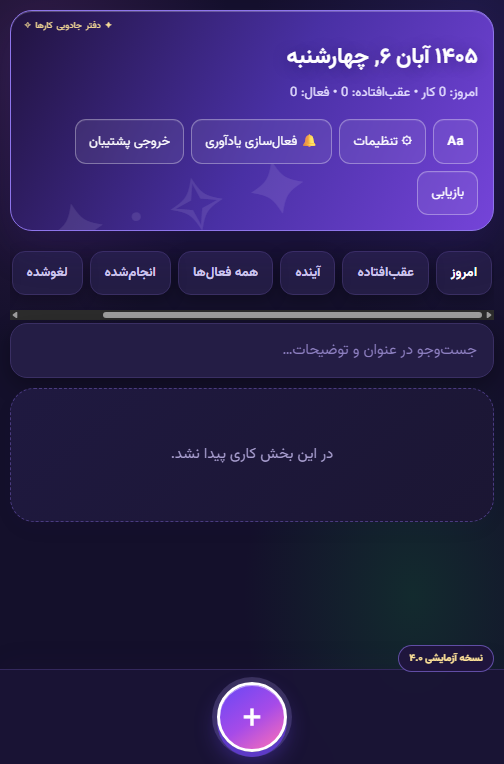
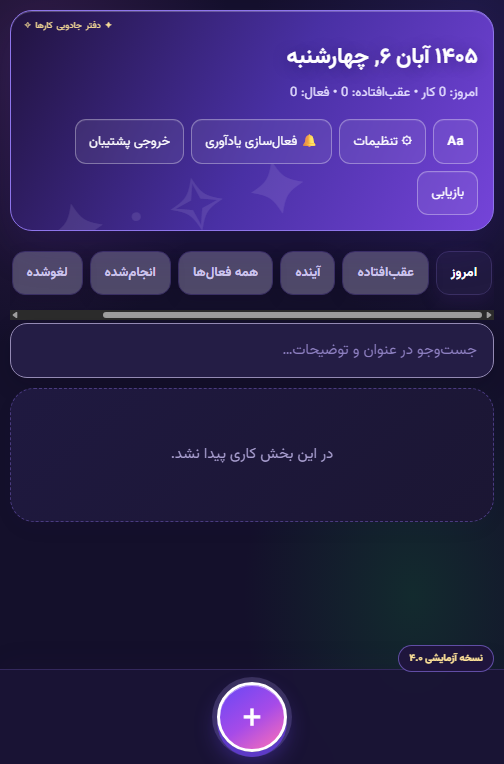
feat(notify): فعالسازی یکلمسی یادآوری — اعلان آزمایشی، حالت دکمه، ذخیره انتخاب، راهنمای رفع مجوز

Changed region(s): [[0.0298, 0.3312, 0.8631, 0.3914]]

diff --git a/index.html b/index.html
@@ -383,6 +383,10 @@ html[data-mode="dark"] .notice{background:#2a2350;border-color:#4d3d85;color:#cf
 html[data-mode="dark"] .sysbanner.warn{background:#3a2f14;border-color:#6b5518;color:#ffd978}
 html[data-mode="dark"] .sysbanner.err{background:#3f1420;border-color:#7a2338;color:#ff9db0}
 html[data-mode="dark"] .sysbanner.upd{background:#14213f;border-color:#2a4a8a;color:#9db9ff}
+
+/* V4.1 — notify button states */
+.notify-on{border-color:#1f5c48!important;background:#e9fbf3!important;color:#12875c!important;font-weight:700}
+html[data-mode="dark"] .notify-on{background:#12332b!important;color:#7ce8c3!important;border-color:#1f5c48!important}
 </style>
 </head>
 <body>
@@ -683,9 +687,26 @@ try{
  }else{alert('فایل پشتیبان معتبر نیست (schemaVersion ناشناخته است).');}
 }catch(err){alert('فایل پشتیبان معتبر نیست: '+((err&&err.message)||'خطای ناشناخته'))}
 e.target.value=''});
-document.getElementById('notifyBtn').addEventListener('click',async()=>{if(!('Notification'in window)){showNotice('این مرورگر از اعلانهای وب پشتیبانی نمیکند.');return}try{const p=await Notification.requestPermission();showNotice(p==='granted'?'مجوز اعلان صادر شد. در این نسخه، اعلانها فقط تا وقتی صفحه باز است بررسی میشوند. برای اعلان مطمئن هنگام بسته بودن برنامه باید نسخه HTTPS با سرویس پسزمینه نصب شود.':'مجوز اعلان صادر نشد؛ تنظیمات مرورگر را بررسی کنید.')}catch(e){showNotice('فعالسازی اعلان در این محیط ممکن نیست.')}});
+function refreshNotifyBtn(){const b=document.getElementById('notifyBtn');if(!b)return;
+ if(!('Notification'in window)||!window.isSecureContext){b.textContent='🔔 یادآوری — در این محیط پشتیبانی نمیشود';b.disabled=true;return}
+ if(Notification.permission==='granted'){b.textContent='🔔 یادآوری فعال ✓ (لمس: اعلان آزمایشی)';b.classList.add('notify-on');}
+ else if(Notification.permission==='denied'){b.textContent='🔔 یادآوری — نیاز به اجازه';b.classList.remove('notify-on');}
+ else{b.textContent='🔔 فعالسازی یادآوری';b.classList.remove('notify-on');}}
+document.getElementById('notifyBtn').addEventListener('click',async()=>{
+ if(!('Notification'in window)){showNotice('این مرورگر از اعلان پشتیبانی نمیکند.');return}
+ if(!window.isSecureContext){showNotice('برای اعلان، برنامه باید روی HTTPS اجرا شود.');return}
+ let p=Notification.permission;
+ if(p==='default'){try{p=await Notification.requestPermission()}catch(e){p='denied'}}
+ if(p==='granted'){
+  try{const n=new Notification('کار یار — یادآوری فعال شد ✓',{body:'یادآوری ساعتیِ کارها تا وقتی برنامه باز است فعال میماند.',tag:'kar-yar-on'});n.onclick=function(){try{window.focus()}catch(e){}}}catch(e){}
+  try{localStorage.setItem('kar_yar_notify','1')}catch(e){}
+  refreshNotifyBtn();showNotice('یادآوری فعال شد و اعلان آزمایشی فرستاده شد. یادآوریِ ساعتدارِ کارهای امروز تا وقتی برنامه باز است کار میکند؛ اعلان در پسزمینهٔ کاملاً بسته نیازمند سرویس Push است (فاز ۲).');
+ }else if(p==='denied'){refreshNotifyBtn();showNotice('اجازهٔ اعلان قبلاً رد شده است. راهکار: تنظیمات مرورگر ← اطلاعات سایت (آیکون ⓘ کنار آدرس) ← اعلانها ← «اجازه» — سپس اینجا دوباره لمس کنید.');}
+ else{refreshNotifyBtn();showNotice('فعالسازی کامل نشد؛ یکبار دیگر لمس کنید.');}
+});
+refreshNotifyBtn();
 let notified=new Set();
-function checkReminders(){if(!('Notification'in window)||Notification.permission!=='granted')return;const now=new Date();state.tasks.filter(t=>t.state==='active'&&t.dueDate===todayISO()&&t.dueTime).forEach(t=>{const [h,m]=t.dueTime.split(':').map(Number);const key=t.id+'-'+t.dueDate+'-'+t.dueTime;if(now.getHours()===h&&now.getMinutes()===m&&!notified.has(key)){notified.add(key);try{new Notification('یادآوری کار',{body:t.title+(t.description?' — '+t.description.slice(0,100):''),tag:key})}catch(e){}}})}
+function checkReminders(){if(!('Notification'in window)||Notification.permission!=='granted')return;const now=new Date();state.tasks.filter(t=>t.state==='active'&&t.dueDate===todayISO()&&t.dueTime).forEach(t=>{const [h,m]=t.dueTime.split(':').map(Number);const key=t.id+'-'+t.dueDate+'-'+t.dueTime;if(now.getHours()===h&&now.getMinutes()===m&&!notified.has(key)){notified.add(key);try{const n=new Notification('یادآوری کار: '+t.title,{body:(t.description?t.description.slice(0,100)+' — ':'')+'ساعت '+t.dueTime,tag:key});n.onclick=function(){try{window.focus()}catch(e){}}}catch(e){}}})}
 function updateDate(){const d=new Date();document.getElementById('date').textContent=new Intl.DateTimeFormat('fa-IR-u-ca-persian',{weekday:'long',year:'numeric',month:'long',day:'numeric'}).format(d)}
 const TS_KEY='kar_yar_ts',TS_STEPS=[['','اندازهٔ معمولی'],['L','متن بزرگ'],['XL','متن خیلی بزرگ']];
 let tsIdx=0;

diff --git a/sw.js b/sw.js
@@ -1,6 +1,6 @@
 /* kar-yar v4 — service worker
    راهبرد: shell → stale-while-revalidate، فونت/آیکون/تصویر → cache-first، ناوبری → network با fallback کش */
-const CACHE_NAME = 'kar-yar-v2-pwa-v3';
+const CACHE_NAME = 'kar-yar-v2-pwa-v4';
 const APP_SHELL = [
   './',
   './index.html',

diff --git a/docs/evidence/browser-battery.md b/docs/evidence/browser-battery.md
@@ -1,9 +1,9 @@
-# شواهد باتری E2E مرورگر واقعی (L4 — TEST-MATRIX ردیف ۴ و ۵) — 2026-10-27T21:44:23.344Z
+# شواهد باتری E2E مرورگر واقعی (L4 — TEST-MATRIX ردیف ۴ و ۵) — 2026-10-27T22:02:33.246Z
 
 - مرورگر: `C:\Program Files\Google\Chrome\Application\chrome.exe` (headless، پروفایل یکبارمصرف)
 - رانر: Node v24.18.0، CDP خام روی WebSocket داخلی — صفر وابستگی npm
 - رویدادها: واقعی DOM (`el.click()`/`dispatchEvent` — Trap-04)، آفلاینسازی واقعی با Network.emulateNetworkConditions
-- اجرا: `node scripts/e2e/battery.mjs` (بودجهٔ ماتریس ≤ ۱۵ دقیقه؛ زمان واقعی 29.5s)
+- اجرا: `node scripts/e2e/battery.mjs` (بودجهٔ ماتریس ≤ ۱۵ دقیقه؛ زمان واقعی 37.5s)
 
 | # | مسیر بحرانی | سناریو | انتظار | نتیجه | خروجی ثبتشده | شاهد |
 |---|---|---|---|---|---|---|
@@ -17,5 +17,6 @@
 | T8 | CP-02 | ویرایش کار + قفل ثبت تکراری | دوکلیک ⇒ ۱ کار + عنوان ویرایششده اعمال شود | 🟢 PASS | prefill="" (مسیر عنوان آماده=طبیعی) cards=1 | `docs/evidence/browser/08-edit.png` |
 | T9 | CP-02 | تکمیل کار با تیک | وضعیت completed + دیدهشدن در فیلتر انجامشده | 🟢 PASS | state=completed | `docs/evidence/browser/09-complete.png` |
 | T10 | CP-02 | انتقال + پیگیری مستقل + سابقه | پیگیری با parentId + اصلی در سوابق | 🟢 PASS | follow=true linked=1 | `docs/evidence/browser/10-transfer.png` |
+| T11 | CP-02+ | فعالسازی آسان یادآوری (یک لمس) | اعلان آزمایشی واقعی + حالت فعال دکمه + ذخیرهٔ انتخاب | 🟢 PASS | fired=1 perm=granted saved=1 | `docs/evidence/browser/11-notify.png` |
 
-**نتیجه: 10/10 سبز** — باتری E2E کاملاً سبز است.
+**نتیجه: 11/11 سبز** — باتری E2E کاملاً سبز است.
